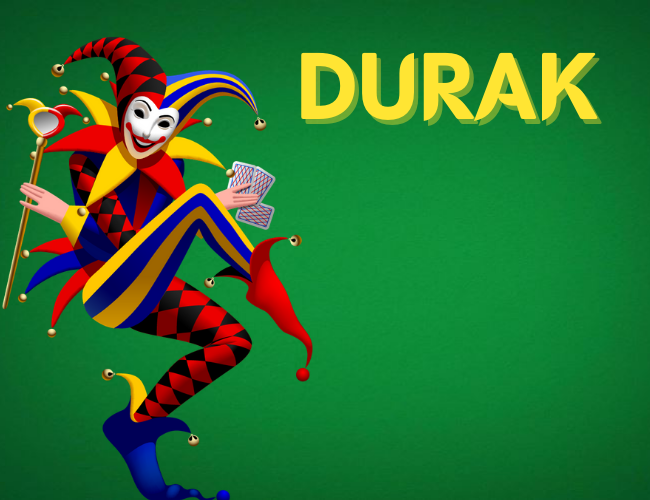
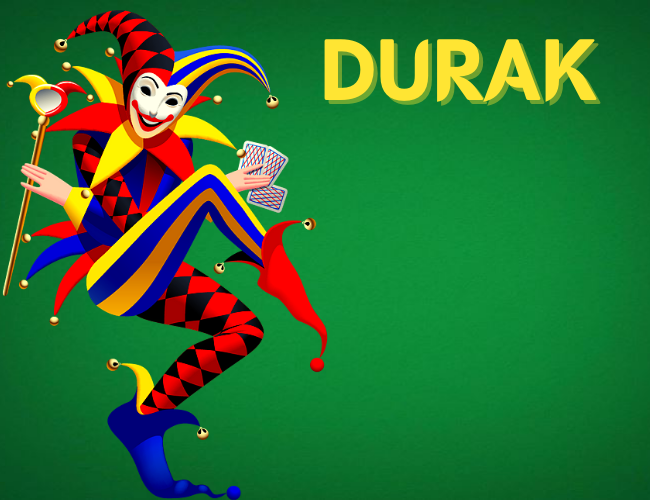
Changes made to UI layout

Changed region(s): [[0.0, 0.0, 0.5231, 1.0], [0.4615, 0.06, 0.9231, 0.27]]

diff --git a/Client/Views/MainHelpView.xaml b/Client/Views/MainHelpView.xaml
@@ -1,0 +1,53 @@
+<UserControl x:Class="Client.Views.MainHelpView"
+             xmlns="http://schemas.microsoft.com/winfx/2006/xaml/presentation"
+             xmlns:x="http://schemas.microsoft.com/winfx/2006/xaml"
+             xmlns:mc="http://schemas.openxmlformats.org/markup-compatibility/2006" 
+             xmlns:d="http://schemas.microsoft.com/expression/blend/2008" 
+             xmlns:local="clr-namespace:Client.Views"
+             mc:Ignorable="d" 
+               d:DesignHeight="600" d:DesignWidth="750"
+             >
+    <Grid>
+        <Grid.ColumnDefinitions>
+            <ColumnDefinition/>
+            <ColumnDefinition/>
+            <ColumnDefinition/>
+        </Grid.ColumnDefinitions>
+        <Grid.RowDefinitions>
+            <RowDefinition Height="35"/>
+            <RowDefinition/>
+            <RowDefinition/>
+            <RowDefinition/>
+            <RowDefinition/>
+            <RowDefinition/>
+            <RowDefinition/>
+            <RowDefinition/>
+            <RowDefinition/>
+            <RowDefinition/>
+            <RowDefinition/>
+        </Grid.RowDefinitions>
+
+        <DockPanel Grid.Row="1" Grid.RowSpan="11" Grid.ColumnSpan="5">
+            <Image Source="/Resources/Background/howtoplay.png" Stretch="Fill"/>
+        </DockPanel>
+
+        <!--Scroll View-->
+        <ScrollViewer HorizontalAlignment="Center" Opacity="0.70" VerticalScrollBarVisibility="Auto" Width="572" Grid.Row="4" Grid.RowSpan="4" Grid.ColumnSpan="3">
+            <StackPanel VerticalAlignment="Top" HorizontalAlignment="Left">
+                <TextBlock x:Name="txtHeader1" Foreground="AntiqueWhite" FontSize="20" TextWrapping="Wrap"/>
+                <TextBlock x:Name="txtObjective" Foreground="AntiqueWhite" FontSize="20" TextWrapping="Wrap"/>
+                <TextBlock x:Name="txtHeader2" Foreground="AntiqueWhite" FontSize="20" TextWrapping="Wrap"/>
+                <TextBlock x:Name="txtGameSetup" Foreground="AntiqueWhite" FontSize="20" TextWrapping="Wrap"/>
+                <TextBlock x:Name="txtHeader3" Foreground="AntiqueWhite" FontSize="20" TextWrapping="Wrap"/>
+                <TextBlock x:Name="txtGamePlay" Foreground="AntiqueWhite" FontSize="20" TextWrapping="Wrap"/>
+            </StackPanel>
+        </ScrollViewer>
+
+        <!--Play button-->
+        <Button Style="{DynamicResource DurakMenuButton}" Grid.Column="1" Grid.Row="9" Content="Play Game!" Click="Play_Click"/>
+
+        <!--Content Control-->
+        <ContentControl Grid.RowSpan="11" Grid.ColumnSpan="5" Content="{Binding}"/>
+    </Grid>
+</UserControl>
+

diff --git a/Client/Views/MainPageView.xaml b/Client/Views/MainPageView.xaml
@@ -23,10 +23,11 @@
             <RowDefinition/>
             <RowDefinition/>
             <RowDefinition/>
+            <RowDefinition/>
         </Grid.RowDefinitions>
 
         <DockPanel Grid.Row="1" Grid.RowSpan="7" Grid.ColumnSpan="5">
-            <Image Source="/Resources/Background/durak.png" Stretch="Fill"/>
+            <Image Source="/Resources/Background/durak (5).png" Stretch="Fill"/>
         </DockPanel>
         <DockPanel Grid.Row="3" Grid.Column="3">
             <StackPanel>
@@ -38,17 +39,24 @@
                 <Button Style="{DynamicResource DurakMenuButton}" Content="About" Click="About_Click"/>
             </StackPanel>
         </DockPanel>
+
         <DockPanel Grid.Row="5" Grid.RowSpan="2" Grid.Column="3">
+            <StackPanel>
+                <Button Style="{DynamicResource DurakMenuButton}" Content="Game Options" Click="GameOptions_Click"/>
+            </StackPanel>
+        </DockPanel>
+        
+        <DockPanel Grid.Row="6" Grid.RowSpan="2" Grid.Column="3">
             <StackPanel>
                 <Button Style="{DynamicResource DurakMenuButton}" Content="Help" Click="Help_Click"/>
             </StackPanel>
         </DockPanel>
-        <DockPanel Grid.Row="6" Grid.RowSpan="2" Grid.Column="3">
+        <DockPanel Grid.Row="7" Grid.RowSpan="2" Grid.Column="3">
             <StackPanel>
                 <Button Style="{DynamicResource DurakMenuButton}" Content="Statistics" Click="Statistics_Click"/>
             </StackPanel>
         </DockPanel>
         
-        <ContentControl Grid.RowSpan="7" Grid.ColumnSpan="5" Content="{Binding}"/>
+        <ContentControl Grid.RowSpan="8" Grid.ColumnSpan="5" Content="{Binding}"/>
     </Grid>
 </UserControl>

diff --git a/Client/Views/GameView.xaml b/Client/Views/GameView.xaml
@@ -33,7 +33,7 @@
         </DockPanel>
 
         <!--Game Log-->
-        <ScrollViewer VerticalScrollBarVisibility="Auto"  Background="Black" Opacity="0.3" Grid.Row="2" Grid.RowSpan="3" Grid.Column="3" Grid.ColumnSpan="2" >
+        <ScrollViewer VerticalScrollBarVisibility="Auto"  Background="Black" Opacity="0.3" Grid.Row="2" Grid.RowSpan="3" Grid.Column="3" Grid.ColumnSpan="2" Margin="0,0,0,10" >
             <StackPanel VerticalAlignment="Top" HorizontalAlignment="Left">
                 <TextBlock x:Name="txtAIThink" Foreground="AntiqueWhite" FontSize="20" TextWrapping="Wrap" Margin="0,0,0,20" Text="{Binding Attacker.PlayerName}"/>
                 <TextBlock x:Name="txtPass" Foreground="AntiqueWhite" TextWrapping="Wrap" Margin="0,0,0,20" Text="{Binding CurrentDeckSize}"/>
@@ -57,10 +57,7 @@
 
         <!--Buttons-->
         <Button  x:Name="btnPass" Content="Pass" Grid.Row="5" Grid.RowSpan="2" Grid.Column="4" Grid.ColumnSpan="2" Style="{DynamicResource DurakPassButton}" Margin="0,24,0,-24" Click="btnPass_Click"/>
-        <Button  x:Name="btnDealNew" Content="New Game" Grid.Row="4" Grid.RowSpan="3" Grid.Column="4" Grid.ColumnSpan="2" Style="{DynamicResource DurakDealNewButton}" Margin="0,67,0,27" Click="btnDealNew_Click"/>
-
-        <!--Content Control-->
-        <!--<ContentControl Grid.RowSpan="7" Grid.ColumnSpan="5" Content="{Binding}"/>-->
+        <Button  x:Name="btnDealNew" Content="New Game" Grid.Row="4" Grid.RowSpan="3" Grid.Column="4" Style="{DynamicResource DurakDealNewButton}" Margin="0,68,0,26" Click="btnDealNew_Click"/>
 
     </Grid>
 

diff --git a/Client/Views/HelpView.xaml b/Client/Views/HelpView.xaml
@@ -9,11 +9,6 @@
         mc:Ignorable="d"
         Title="HelpView" Height="450" Width="300">
 
-    <Window.Resources>
-        <DataTemplate x:Name="attackingViewTemplate" DataType="{x:Type viewmodels:AttackingViewModel}">
-            <views:AttackingView DataContext="{Binding}"/>
-        </DataTemplate>
-    </Window.Resources>
     <Grid>
         <Grid.ColumnDefinitions>
             <ColumnDefinition/>
@@ -32,10 +27,5 @@
         <DockPanel  Grid.Row="0" Grid.Column="0"  Grid.RowSpan="6" Grid.ColumnSpan="5">
             <Image Source="/Resources/Background/background.png" Stretch="Fill"/>
         </DockPanel>
-        <DockPanel Grid.Row="0" Grid.Column="0" Grid.ColumnSpan="6" Background="Gray" MaxHeight="30" Margin="0,0,0,40"/>
-        <Button Content="Attacking" Grid.Column="0" HorizontalAlignment="Center" Grid.Row="0" VerticalAlignment="Top" Width="70" Margin="0,5,0,0" Click="Attacking_Clicked" />
-        <Button Content="Defending" Grid.Column="1" HorizontalAlignment="Center" Grid.Row="0" VerticalAlignment="Top" Width="70" Margin="0,5,0,0"/>
-        <Button Content="Trump Card" Grid.Column="2" HorizontalAlignment="Center" Grid.Row="0" VerticalAlignment="Top" Width="70" Margin="0,5,0,0"/>
-        <Button Content="End of Turn" Grid.Column="3" HorizontalAlignment="Center" Grid.Row="0" VerticalAlignment="Top" Width="70" Margin="0,5,0,0"/>
     </Grid>
 </Window>

diff --git a/Client/Views/StatisticsView.xaml b/Client/Views/StatisticsView.xaml
@@ -29,7 +29,7 @@
                 <RowDefinition/>
         </Grid.RowDefinitions>
 
-            <DockPanel Grid.Row="1" Grid.RowSpan="11" Grid.ColumnSpan="5">
+        <DockPanel Grid.Row="1" Grid.RowSpan="11" Grid.ColumnSpan="5">
             <Image Source="/Resources/Background/statistics.png" Stretch="Fill"/>
         </DockPanel>
         <Label  x:Name="lbl1" Content="Label" Grid.Row="4" Grid.Column="1" Grid.ColumnSpan="2" Style="{DynamicResource GameViewLabel}"  />
@@ -40,7 +40,7 @@
 
         <Button Style="{DynamicResource DurakScrollButton}" VerticalAlignment="Center" Grid.Column="2" Grid.Row="9"  Content="Reset" Click="Reset_Click"/>
         <!--Content Control-->
-        <ContentControl Grid.RowSpan="11" Grid.ColumnSpan="5" Content="{Binding}"/>
+        <ContentControl Grid.RowSpan="12" Grid.ColumnSpan="5" Content="{Binding}"/>
     </Grid>
     
 </UserControl>

diff --git a/Client/Views/GameSettingsView.xaml b/Client/Views/GameSettingsView.xaml
@@ -30,11 +30,12 @@
             <Image Source="/Resources/Background/gameoptions.png" Stretch="Fill" Width="748" />
         </DockPanel>
 
-
         <Button Style="{DynamicResource DurakScrollButton}" Grid.Column="2" Grid.Row="4"  Content="Continue" Click="Play_Click"/>
+        
         <RadioButton x:Name="rb1" Content="52" Grid.Column="2" Grid.Row="3" HorizontalAlignment="Left" VerticalAlignment="Bottom"/>
         <RadioButton x:Name="rb2" Content="36" Grid.Column="2" Grid.Row="3" HorizontalAlignment="Center" VerticalAlignment="Bottom"/>
         <RadioButton x:Name="rb3" Content="20" Grid.Column="2" Grid.Row="3" HorizontalAlignment="Right" VerticalAlignment="Bottom"/>
+        
         <!--Content Control-->
         <ContentControl Grid.RowSpan="7" Grid.ColumnSpan="5" Content="{Binding}"/>
     </Grid>

diff --git a/Client/Views/MainHelpView.xaml.cs b/Client/Views/MainHelpView.xaml.cs
@@ -1,0 +1,51 @@
+using System;
+using System.Collections.Generic;
+using System.Linq;
+using System.Text;
+using System.Threading.Tasks;
+using System.Windows;
+using System.Windows.Controls;
+using System.Windows.Data;
+using System.Windows.Documents;
+using System.Windows.Input;
+using System.Windows.Media;
+using System.Windows.Media.Imaging;
+using System.Windows.Navigation;
+using System.Windows.Shapes;
+
+namespace Client.Views
+{
+    /// <summary>
+    /// Interaction logic for MainHelpView.xaml
+    /// </summary>
+    public partial class MainHelpView : UserControl
+    {
+        public MainHelpView()
+        {
+            InitializeComponent();
+            GenerateText();
+            this.DataContext = null;
+        }
+
+        private void GenerateText()
+        {
+            txtObjective.Text = "The object of the game is for a player to get rid of all his/her " +
+                                "cards before the other player. Whoever is left with cards on their  " +
+                                "hands at the end of the game is the ‘Durak’ (“fool” in Russian).";
+
+            txtGameSetup.Text = "Durak can be played with a deck of 20, 36, or 52 cards. " +
+                                "After the application shuffles the cards on the deck, 6 cards are " +
+                                "distributed randomly to each player.The rest of the deck is placed on a" +
+                                " draw pile.The top card is flipped over to determine the trump suit for the " +
+                                "round and placed under the draw pile in a way that it can be seen.";
+
+
+        }
+        private void Play_Click(object sender, RoutedEventArgs e)
+        {
+            GameView gameView = new GameView();
+            DataContext = gameView;
+        }
+
+    }
+}

diff --git a/Client/Views/StatisticsView.xaml.cs b/Client/Views/StatisticsView.xaml.cs
@@ -24,24 +24,27 @@ namespace Client.Views
             DataContext = statisticsView;
         }
 
-            private void GenerateStatistics()
-            {
-            // Stores file path in the system
-            var pwd = Directory.GetCurrentDirectory();
-            var fileName = System.IO.Path.Combine(pwd, "GameLog");
-            var read = System.IO.Path.Combine(fileName, "statistics.txt");
+        /// <summary>
+        /// This method will generate statistics
+        /// </summary>
+        private void GenerateStatistics()
+        {
+        // Stores file path in the system
+        var pwd = Directory.GetCurrentDirectory();
+        var fileName = System.IO.Path.Combine(pwd, "GameLog");
+        var read = System.IO.Path.Combine(fileName, "statistics.txt");
           
 
-            if (File.Exists(read))
-            {
-                // Store each line in array of strings
-                string[] option = File.ReadAllLines(read);
-                lbl1.Content = $"{option[0]}";
-                lblWins.Content = $"Number of Wins: {option[1]}";
-                lblLosses.Content = $"Number of Losses: {option[2]}";
-                lblTies.Content = $"Number of Ties: {option[3]}";
-                lblTotal.Content = $"Number of Games Played: {option[4]}";
-            }
+        if (File.Exists(read))
+        {
+            // Store each line in array of strings
+            string[] option = File.ReadAllLines(read);
+            lbl1.Content = $"{option[0]}";
+            lblWins.Content = $"Number of Wins: {option[1]}";
+            lblLosses.Content = $"Number of Losses: {option[2]}";
+            lblTies.Content = $"Number of Ties: {option[3]}";
+            lblTotal.Content = $"Number of Games Played: {option[4]}";
+        }
         
         }
     }

diff --git a/Client/Views/MainPageView.xaml.cs b/Client/Views/MainPageView.xaml.cs
@@ -26,11 +26,16 @@ namespace Client.Views
             DataContext = aboutView;
         }
 
+        private void GameOptions_Click(object sender, RoutedEventArgs e)
+        {
+            GameSettingsView gameSettingsView = new GameSettingsView();
+            DataContext = gameSettingsView;
+        }
+
         private void Help_Click(object sender, RoutedEventArgs e)
         {
-            HelpView helpWindow = new HelpView();
-            helpWindow.Show();
-            //System.Diagnostics.Process.Start("https://www.pagat.com/beating/podkidnoy_durak.html");
+            MainHelpView helpWindow = new MainHelpView();
+            DataContext = helpWindow;
         }
 
         private void Statistics_Click(object sender, RoutedEventArgs e)

diff --git a/Client/MainWindow.xaml.cs b/Client/MainWindow.xaml.cs
@@ -32,7 +32,9 @@ namespace Client
 
         private void HelpMenu_Click(object sender, RoutedEventArgs e)
         {
-            HelpView helpWindow = new HelpView {Name = "GameRules"};
+            HelpView helpWindow = new HelpView();
+
+            helpWindow.Name = "GameRules";
 
             helpWindow.Show();
         }

diff --git a/Client/ViewModels/MainMenuViewModel.cs b/Client/ViewModels/MainMenuViewModel.cs
@@ -1,13 +1,12 @@
 using System;
 using System.Collections.Generic;
-using System.ComponentModel;
 using System.Linq;
 using System.Text;
 using System.Threading.Tasks;
 
 namespace Client.ViewModels
 {
-    public class AttackingViewModel : BaseViewModel
+    class MainMenuViewModel
     {
     }
 }

diff --git a/Client/Views/HelpView.xaml.cs b/Client/Views/HelpView.xaml.cs
@@ -25,9 +25,6 @@ namespace Client.Views
             InitializeComponent();
         }
 
-        private void Attacking_Clicked(object sender, RoutedEventArgs e)
-        {
-            DataContext = new AttackingView();
-        }
+        
     }
 }
